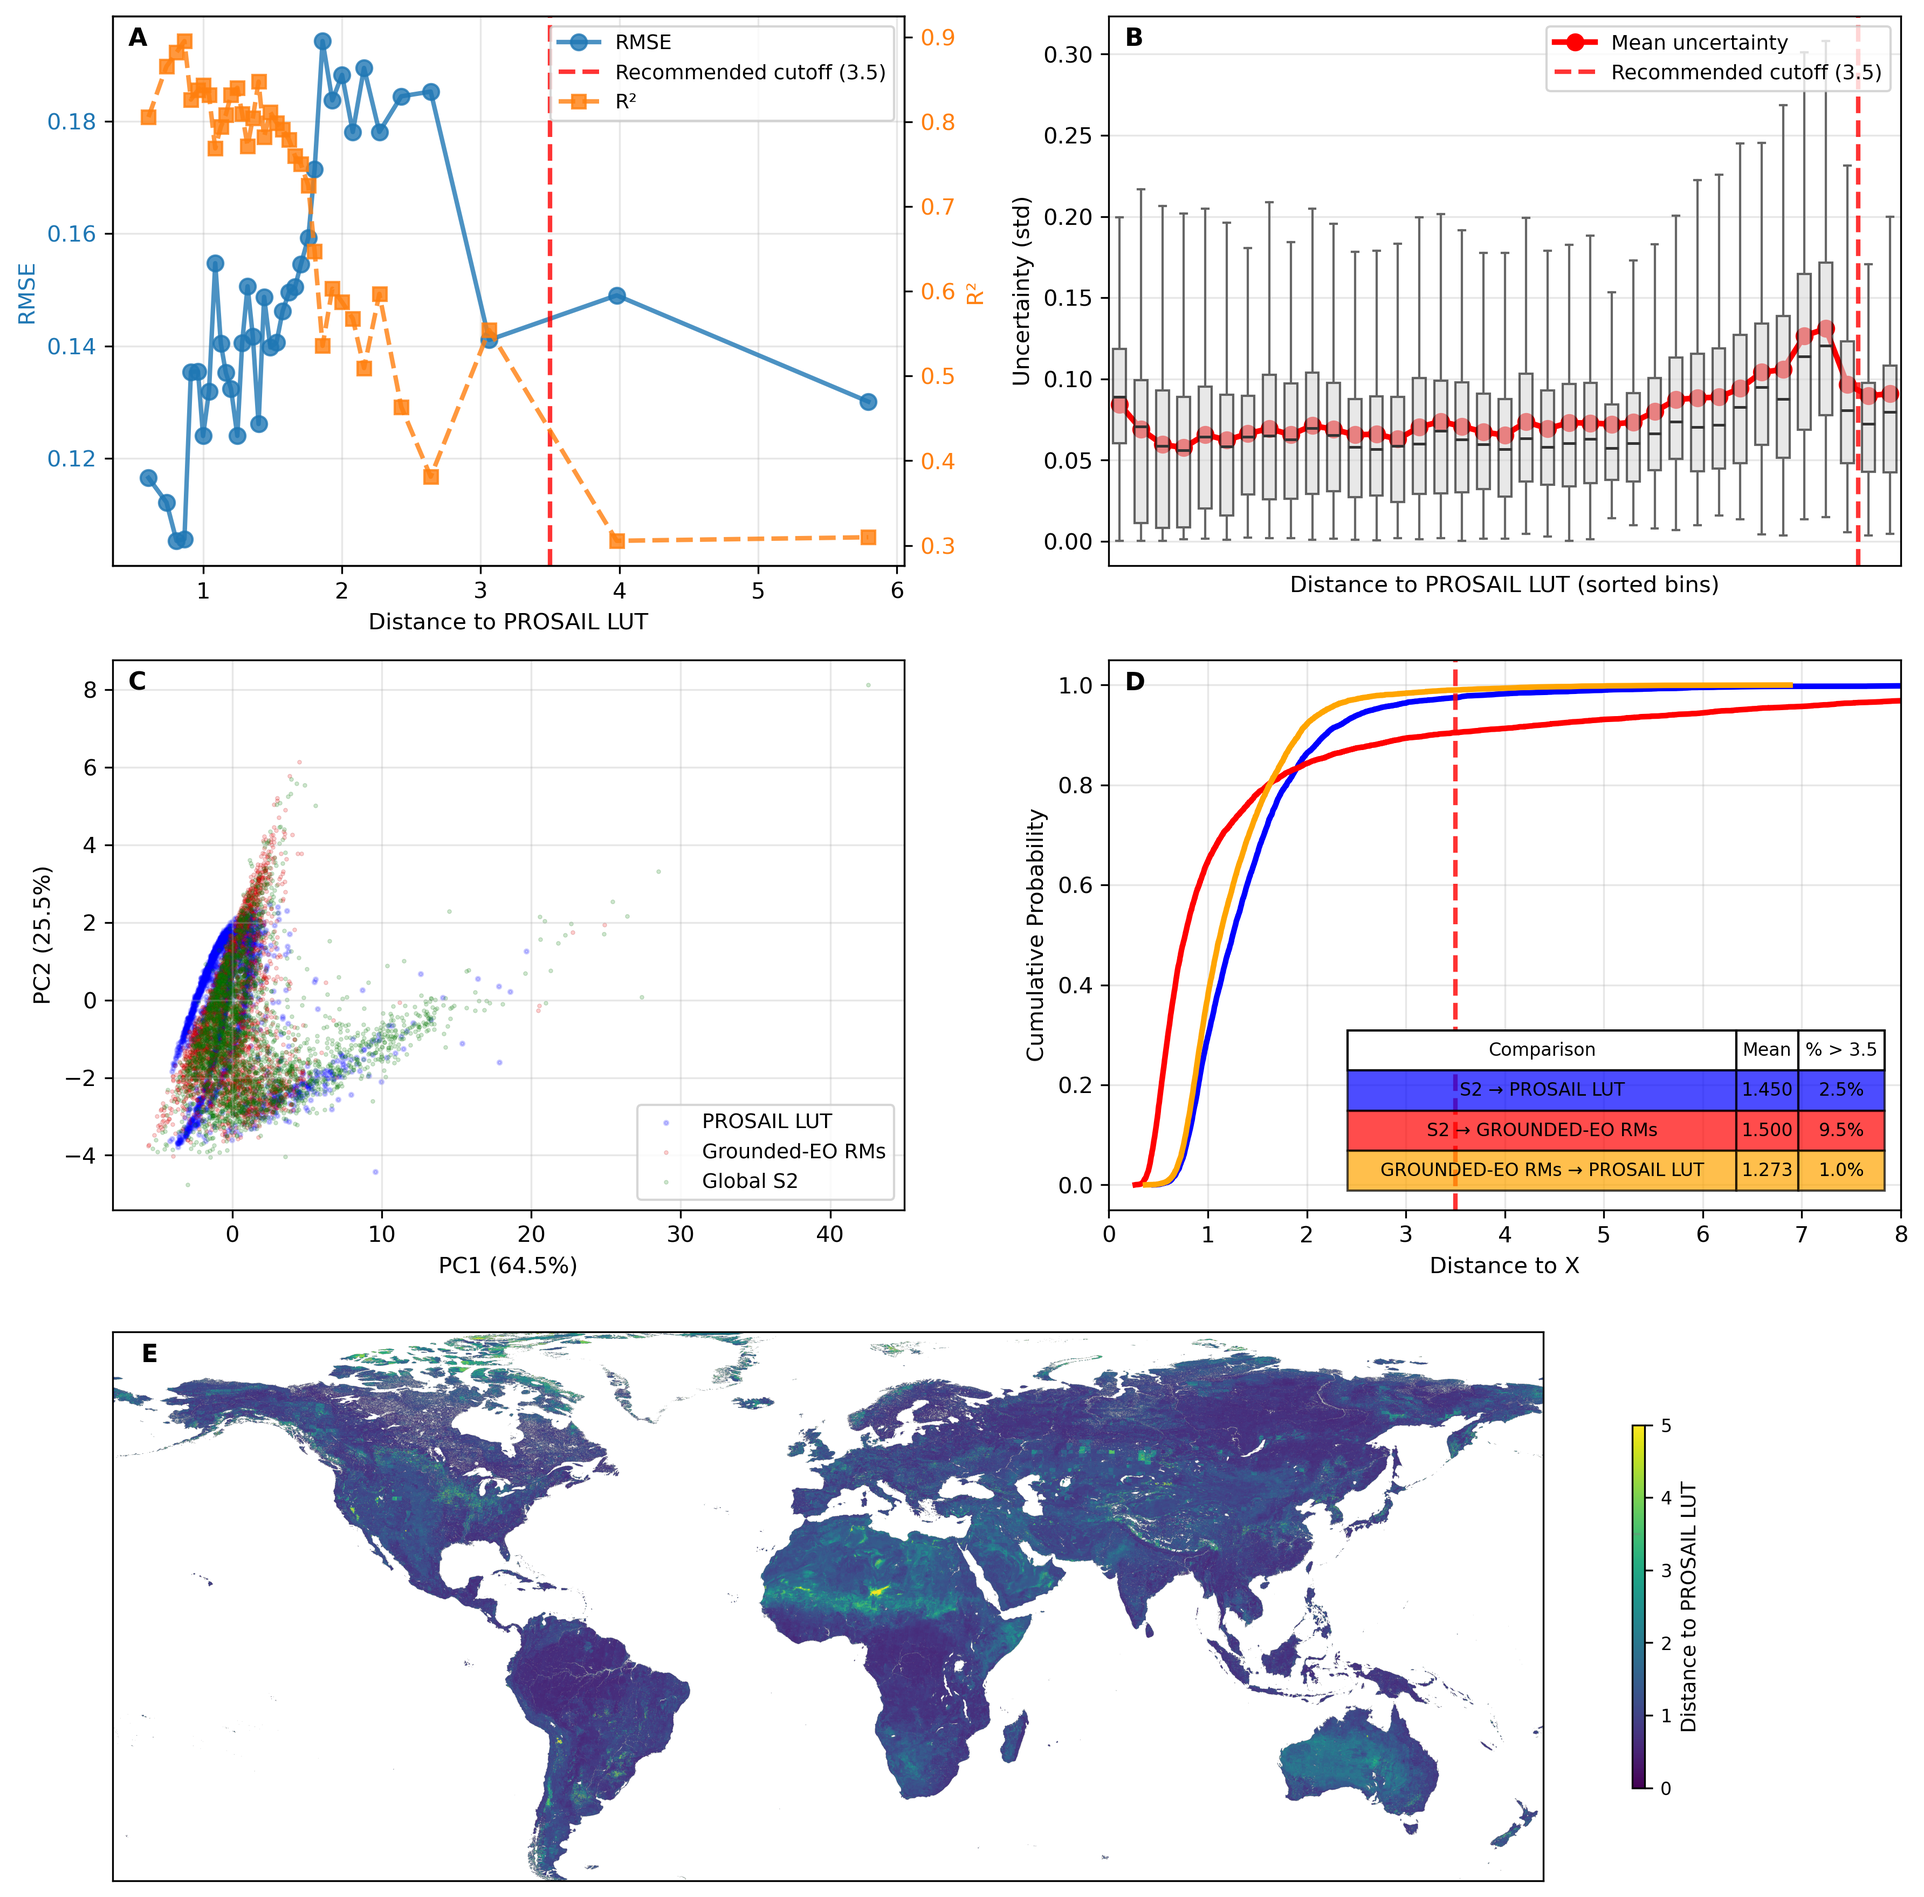
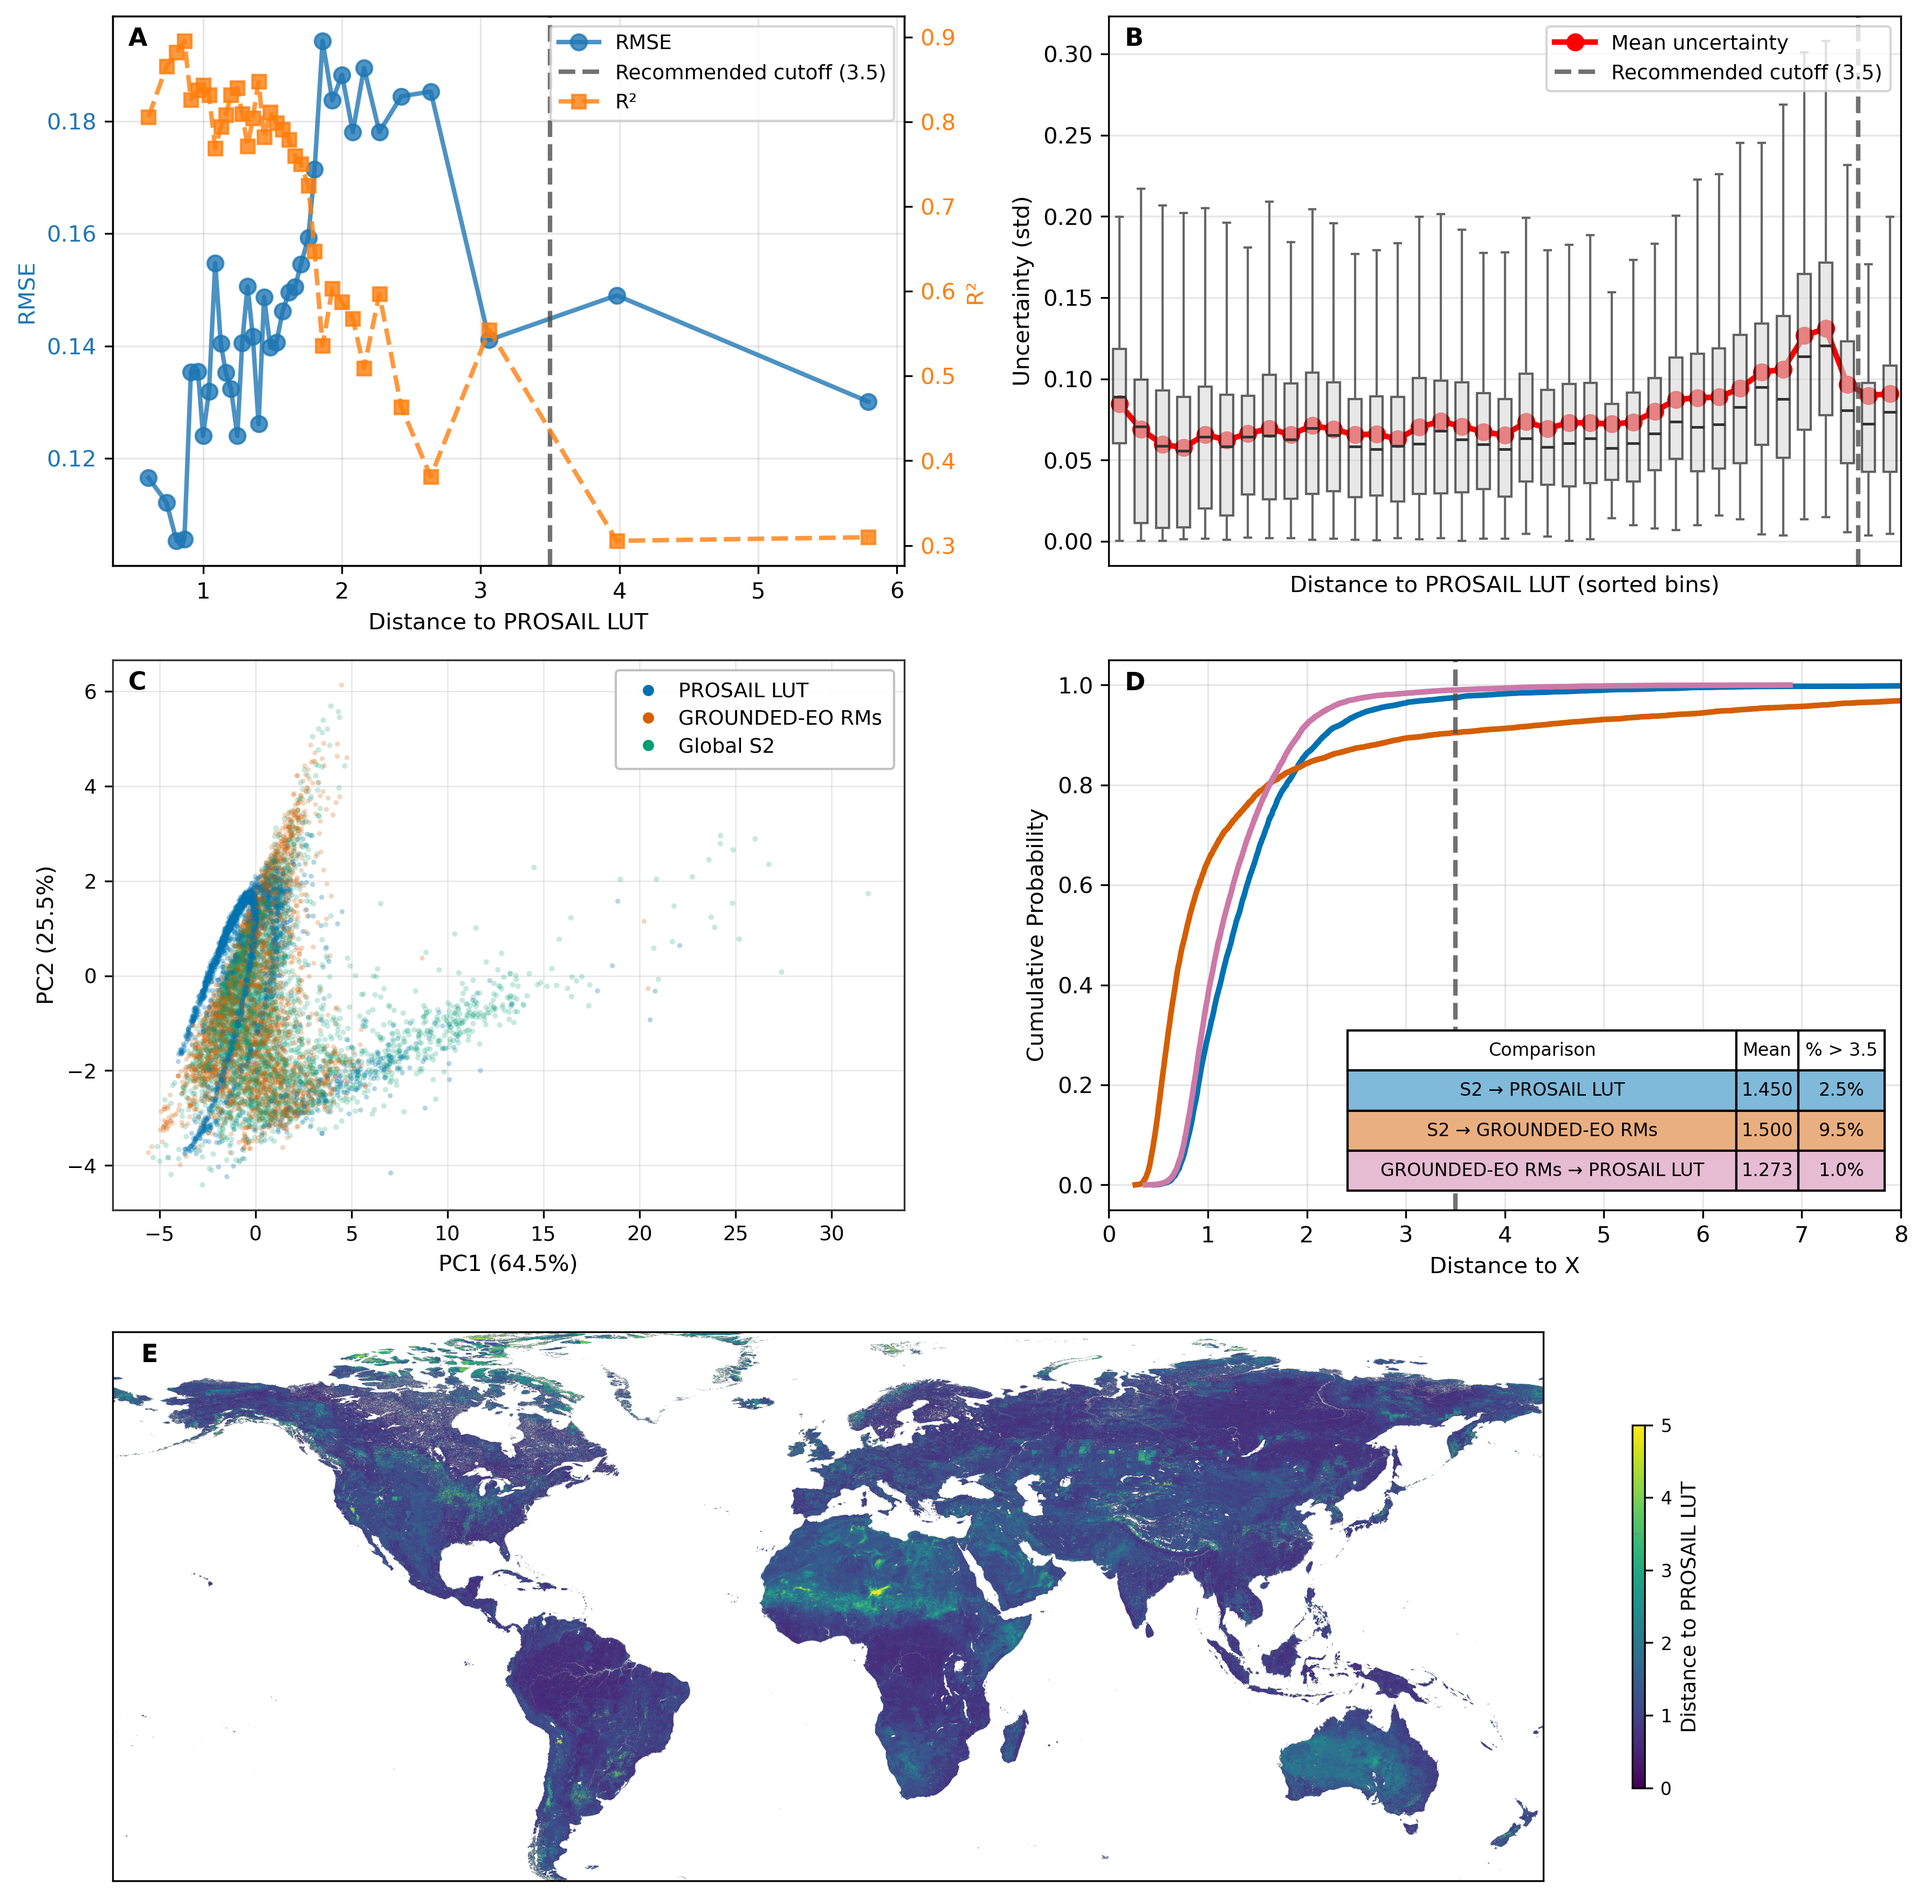
update extrapolation figure

diff --git a/analysis/domain_representativeness_experiment/create_combined_domain_figure.py b/analysis/domain_representativeness_experiment/create_combined_domain_figure.py
@@ -15,6 +15,7 @@ import matplotlib.pyplot as plt
 import numpy as np
 import pandas as pd
 import rasterio
+from matplotlib.colors import to_rgb
 from mpl_toolkits.axes_grid1.inset_locator import inset_axes
 
 from analysis.domain_representativeness_experiment.run_phase2_pca import (
@@ -97,44 +98,60 @@ def add_panel_label(ax, label: str) -> None:
     )
 
 
+from matplotlib.lines import Line2D
+
+
 def plot_pca_panel(ax) -> None:
-    """Plot PCA domain panel for LAIe (bottom left)."""
+    """Plot the PCA representation of the retrieval domains."""
     data = load_phase1_data(DATA_DIR)
     pca_results = perform_2d_pca(data)
     pca_results_sub = subsample_points(pca_results, n_samples=3000)
 
-    lut_pca = pca_results_sub[TRAIT]["lut_pca"]
-    rms_pca = pca_results_sub[TRAIT]["rms_pca"]
-    s2_pca = pca_results_sub[TRAIT]["s2_pca"]
-    pca = pca_results_sub[TRAIT]["pca"]
+    results = pca_results_sub[TRAIT]
+    lut_pca = results["lut_pca"]
+    rms_pca = results["rms_pca"]
+    s2_pca = results["s2_pca"]
+    pca = results["pca"]
+
+    colors = {
+        "prosail": "#0072B2",  # blue
+        "grounded": "#D55E00",  # vermillion
+        "global_s2": "#009E73",  # teal
+    }
+
+    from matplotlib.colors import to_rgba
+
+    point_sets = [
+        (lut_pca, colors["prosail"], 0.30, 5),
+        (rms_pca, colors["grounded"], 0.25, 5),
+        (s2_pca, colors["global_s2"], 0.22, 6),
+    ]
+
+    coordinates = np.concatenate([item[0] for item in point_sets])
+
+    facecolors = np.concatenate(
+        [
+            np.tile(to_rgba(color, alpha), (len(points), 1))
+            for points, color, alpha, _ in point_sets
+        ]
+    )
+
+    sizes = np.concatenate(
+        [np.full(len(points), size) for points, _, _, size in point_sets]
+    )
+
+    # Randomize drawing order reproducibly.
+    rng = np.random.default_rng(42)
+    order = rng.permutation(len(coordinates))
 
     ax.scatter(
-        lut_pca[:, 0],
-        lut_pca[:, 1],
-        alpha=0.2,
-        s=3,
-        c="blue",
-        label="PROSAIL LUT",
-    )
-    ax.scatter(
-        rms_pca[:, 0],
-        rms_pca[:, 1],
-        alpha=0.2,
-        s=3,
-        c="red",
-        label="Grounded-EO RMs",
-        edgecolors="darkred",
-        linewidth=0.3,
-    )
-    ax.scatter(
-        s2_pca[:, 0],
-        s2_pca[:, 1],
-        alpha=0.2,
-        s=3,
-        c="green",
-        label="Global S2",
-        edgecolors="darkgreen",
-        linewidth=0.3,
+        coordinates[order, 0],
+        coordinates[order, 1],
+        s=sizes[order],
+        facecolors=facecolors[order],
+        edgecolors="none",
+        rasterized=True,
+        zorder=2,
     )
 
     ax.set_xlabel(
@@ -145,11 +162,65 @@ def plot_pca_panel(ax) -> None:
         f"PC2 ({pca.explained_variance_ratio_[1]:.1%})",
         fontsize=10,
     )
-    # ax.set_title(
-    #     f"Domain Representation - {TRAIT.upper()}", fontsize=11, fontweight="bold"
-    # )
-    ax.grid(True, alpha=0.3)
-    ax.legend(loc="best", fontsize=9)
+
+    ax.grid(
+        True,
+        color="#D9D9D9",
+        linewidth=0.7,
+        alpha=0.55,
+    )
+    ax.tick_params(axis="both", labelsize=9, width=0.8)
+
+    for spine in ax.spines.values():
+        spine.set_color("#333333")
+        spine.set_linewidth(0.8)
+
+    # Use opaque, consistently sized legend markers.
+    legend_handles = [
+        Line2D(
+            [],
+            [],
+            marker="o",
+            linestyle="none",
+            markersize=5,
+            markerfacecolor=colors["prosail"],
+            markeredgecolor="none",
+            label="PROSAIL LUT",
+        ),
+        Line2D(
+            [],
+            [],
+            marker="o",
+            linestyle="none",
+            markersize=5,
+            markerfacecolor=colors["grounded"],
+            markeredgecolor="none",
+            label="GROUNDED-EO RMs",
+        ),
+        Line2D(
+            [],
+            [],
+            marker="o",
+            linestyle="none",
+            markersize=5,
+            markerfacecolor=colors["global_s2"],
+            markeredgecolor="none",
+            label="Global S2",
+        ),
+    ]
+
+    ax.legend(
+        handles=legend_handles,
+        loc="upper right",
+        fontsize=9,
+        frameon=True,
+        facecolor="white",
+        edgecolor="#BFBFBF",
+        framealpha=0.95,
+        borderpad=0.6,
+        handletextpad=0.5,
+        labelspacing=0.4,
+    )
 
 
 def plot_performance_panel(ax, df_all) -> None:
@@ -191,7 +262,7 @@ def plot_performance_panel(ax, df_all) -> None:
     # Add recommended cutoff line at distance = 3.5
     ax.axvline(
         3.5,
-        color="red",
+        color="#4D4D4D",
         linestyle="--",
         linewidth=2,
         alpha=0.8,
@@ -244,7 +315,7 @@ def plot_uncertainty_panel(ax, df_all) -> None:
     cutoff_position = len(binned) - 1.5  # Between third-to-last and second-to-last bin
     ax.axvline(
         cutoff_position,
-        color="red",
+        color="#4D4D4D",
         linestyle="--",
         linewidth=2,
         alpha=0.8,
@@ -335,6 +406,14 @@ def plot_distance_cdf_comparison(ax) -> None:
     # Load Global S2 distance data (to LUT)
     global_dist_file = RESULTS_DIR / "phase3_globalS2_with_distances.csv"
 
+    comparison_colors = {
+        "s2_lut": "#0072B2",  # blue
+        "s2_rms": "#D55E00",  # vermillion
+        "rms_lut": "#CC79A7",  # purple
+    }
+
+    cutoff_color = "#4D4D4D"
+
     if not global_dist_file.exists():
         ax.text(
             0.5,
@@ -404,18 +483,30 @@ def plot_distance_cdf_comparison(ax) -> None:
         x_rms_to_lut = np.sort(rms_to_lut_subset)
         y_rms_to_lut = np.arange(1, len(x_rms_to_lut) + 1) / len(x_rms_to_lut)
 
-        ax.plot(x_lut, y_lut, color="blue", linewidth=2.5, label="S2 → PROSAIL LUT")
-        ax.plot(x_rms, y_rms, color="red", linewidth=2.5, label="S2 → GROUNDED-EO RMs")
+        ax.plot(
+            x_lut,
+            y_lut,
+            color=comparison_colors["s2_lut"],
+            linewidth=2.5,
+            label="S2 → PROSAIL LUT",
+        )
+        ax.plot(
+            x_rms,
+            y_rms,
+            color=comparison_colors["s2_rms"],
+            linewidth=2.5,
+            label="S2 → GROUNDED-EO RMs",
+        )
         ax.plot(
             x_rms_to_lut,
             y_rms_to_lut,
-            color="orange",
+            color=comparison_colors["rms_lut"],
             linewidth=2.5,
             label="GROUNDED-EO RMs → PROSAIL LUT",
         )
         ax.axvline(
             3.5,
-            color="red",
+            color="#4D4D4D",
             linestyle="--",
             linewidth=2,
             alpha=0.8,
@@ -472,6 +563,22 @@ def plot_distance_statistics_table(ax) -> None:
             load_phase1_data,
             perform_2d_pca,
         )
+
+        def _tint(color: str, strength: float = 0.5) -> tuple:
+            """Blend a color with white for a pale table background."""
+            rgb = np.asarray(to_rgb(color))
+            return tuple((1 - strength) + strength * rgb)
+
+        comparison_colors = {
+            "s2_lut": "#0072B2",  # blue
+            "s2_rms": "#D55E00",  # vermillion
+            "rms_lut": "#CC79A7",  # purple
+        }
+        table_colors = [
+            _tint(comparison_colors["s2_lut"]),
+            _tint(comparison_colors["s2_rms"]),
+            _tint(comparison_colors["rms_lut"]),
+        ]
 
         # Load Global S2 distances to LUT
         global_data = pd.read_csv(global_dist_file)
@@ -579,11 +686,10 @@ def plot_distance_statistics_table(ax) -> None:
             table[(i, 2)].set_width(0.3)  # % > 3.5 column
 
         # Color code rows
-        colors = ["blue", "red", "orange"]
         for i in range(len(table_data)):
             for j in range(len(columns)):
-                table[(i + 1, j)].set_facecolor(colors[i])
-                table[(i + 1, j)].set_alpha(0.7)
+                table[(i + 1, j)].set_facecolor(table_colors[i])
+                table[(i + 1, j)].get_text().set_color("black")
 
         # No title for inset table
 
